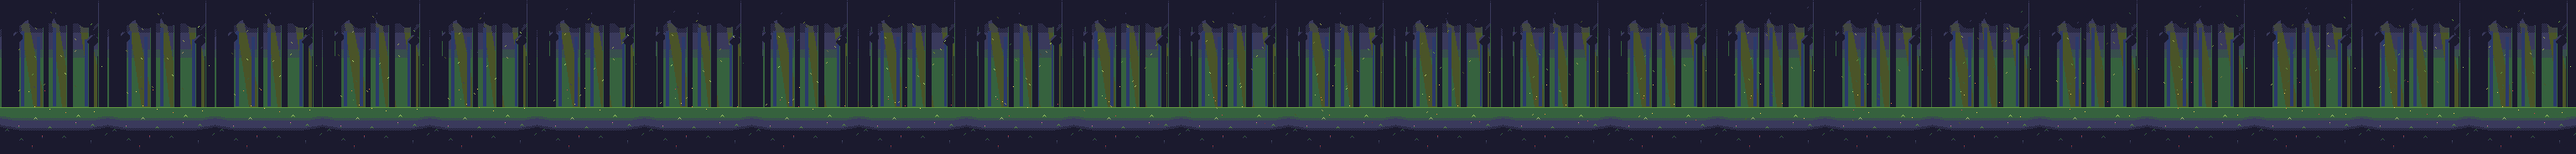
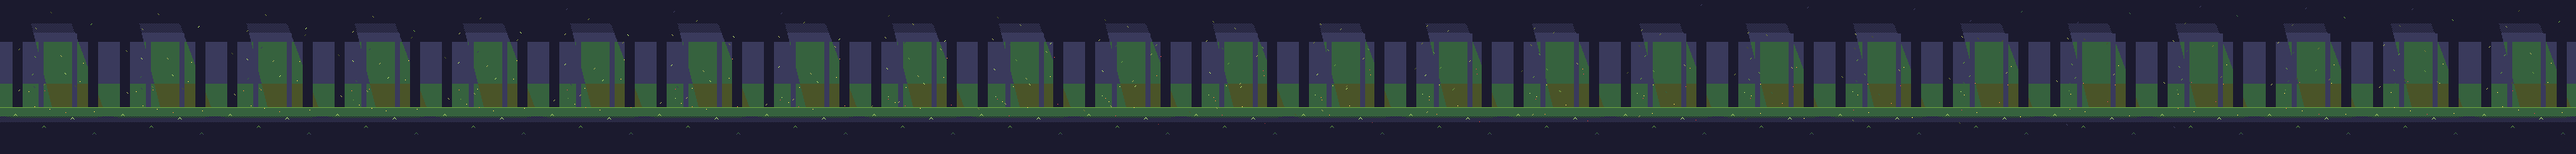
Backdrops: minimal Eden glade and Flint warm-pool scenes
Claude-Session: https://claude.ai/code/session_01J8LgTLVYzThXjNSRVhWqep

diff --git a/tools/sprites/backdrops.py b/tools/sprites/backdrops.py
@@ -279,93 +279,74 @@ def leaf_clusters(layer: Layer, rng: random.Random, centers: list, base: tuple, 
 
 
 def eden() -> Scene:
+    """Minimal: banded dark glade, four tone-on-tone trunks, one wide soft shaft, a mossy floor line."""
     s = Scene(11)
-    sky = Layer()  # a calm glade: dark canopy overhead, a warm green glow at the horizon
-    sky.gradient(0, FLOOR, [SHADOW, SHADOW, GREEN_D, GREEN_D])
+    sky = Layer()
+    sky.rect((0, 0, W, 50), flat(OUTLINE))
+    sky.rect((0, 50, W, 100), flat(SHADOW))
+    sky.rect((0, 100, W, FLOOR), flat(GREEN_D))
+    shaft = Layer()  # one wide, soft band of light, banded to match the sky behind it
+    shaft.poly([(30, 0), (74, 0), (122, FLOOR), (62, FLOOR)], lambda x, y: SHADOW if y < 50 else GREEN_D if y < 100 else OLIVE_D)
     s.add(sky)
-    shafts = Layer()  # three soft shafts of light behind the trunks
-    for x0, wd, run in ((22, 8, 24), (60, 6, 20), (92, 9, 24)):
-        shafts.poly([(x0, 10), (x0 + wd, 10), (x0 + wd + run, FLOOR), (x0 + run - 6, FLOOR)], flat(OLIVE_D))
-    s.add(shafts, 3.0, 0.0)
-    far = Layer()  # distant trunks: thin and blue
-    for i, x in enumerate(range(6, W, 19)):
-        far.rect((x, 30 + (i * 7) % 18, x + 3, FLOOR - 2), flat(NAVY))
+    s.add(shaft, 3.0, 0.0)
+    far = Layer()  # four trunks in all: two thin ones far back, fading into the dark canopy...
+    for x in (46, 86):
+        far.rect((x, 40, x + 5, FLOOR), flat(step(GREEN_D, -1)))
     s.add(far, 1.0, 0.0)
-    mid = Layer()  # mid trunks, dark with a lit left edge
-    for x, top, w in ((14, 20, 7), (50, 26, 6), (78, 22, 7), (104, 28, 6)):
-        mid.rect((x, top, x + w, FLOOR), flat(OUTLINE))
-        mid.rect((x, top, x, FLOOR), flat(GREEN_D))
-    s.add(mid, 1.5, 0.1)
-    canopy = Layer()  # the canopy edge: scalloped leaf clusters
-    canopy.rect((0, 0, W, 14), flat(OUTLINE))
-    centers = [(x + (i % 2) * 6, 14 + (i * 5) % 9, 9 + (i * 3) % 5) for i, x in enumerate(range(-4, W + 12, 14))]
-    leaf_clusters(canopy, s.rng, centers, OUTLINE, step(GREEN_D, -1))
-    leaf_clusters(canopy, s.rng, [(6, 34, 8), (18, 44, 6), (118, 36, 9), (108, 48, 6)], OUTLINE, step(GREEN_D, -1))
-    tree(canopy, -6, 0, FLOOR + 4, 20, OUTLINE, GREEN_D)  # the two foreground trunks
-    tree(canopy, 114, 0, FLOOR + 4, 22, OUTLINE, GREEN_D)
-    s.add(canopy, 2.0, 0.25)
+    near = Layer()  # ...and two thick dark ones nearer
+    for x in (14, 104):
+        near.rect((x, 0, x + 11, FLOOR), flat(OUTLINE))
+    s.add(near, 1.5, 0.1)
     floor = Layer()
-    ground(floor, [GREEN_D, GREEN_D, step(GREEN_D, -1)], rim=GREEN)
-    for x in range(8, W, 17):  # grass tufts, then a few flowers
-        y = FLOOR + 8 + (x * 7) % 36
+    ground(floor, [GREEN_D, OUTLINE, OUTLINE], rim=GREEN)
+    for x, y in ((18, FLOOR + 10), (52, FLOOR + 24), (86, FLOOR + 14), (112, FLOOR + 32)):  # a few grass tufts
         for dx, dy in ((-2, 0), (0, -2), (2, 0), (-1, -1), (1, -1)):
             floor.put(x + dx, y + dy, GREEN_L if dy else GREEN)
-    for x, y, c in ((22, FLOOR + 22, PINK_L), (50, FLOOR + 34, YELLOW), (90, FLOOR + 18, PINK_L), (108, FLOOR + 40, WHITE), (38, FLOOR + 46, YELLOW)):
-        floor.put(x, y, c)
-        floor.put(x, y + 1, GREEN)
-        floor.put(x, y + 2, GREEN)
     s.add(floor)
-    s.particles(14, (6, 0, W - 6, 100), (-16, 52), [OLIVE_L, GREEN_L, GREEN], kind="leaf", sway=5)
-    s.particles(8, (10, 70, W - 10, 150), (6, -18), [YELLOW, GREEN_L], size=1, sway=4)
+    s.particles(12, (6, 0, W - 6, 100), (-16, 52), [OLIVE_L, GREEN_L, GREEN], kind="leaf", sway=5)
+    s.particles(9, (10, 70, W - 10, 150), (6, -18), [YELLOW, GREEN_L], size=1, sway=4)
     return s
 
 
 def flint() -> Scene:
+    """Minimal: charcoal-to-deep-red bands, a low warm glow ellipse behind him, rock edges, a cracked floor."""
     s = Scene(12)
-    back = Layer()  # inside the arch: warm bands rising from the lava
-    back.gradient(0, FLOOR, [OUTLINE, OUTLINE, MAROON, MAROON, RED])
+    back = Layer()  # the red only arrives in the lowest bands: never the top half
+    back.gradient(0, FLOOR, [OUTLINE, SHADOW, SHADOW])
     s.add(back)
-    arch = Layer()  # a dark rock arch framing the scene
-    ring = Image.new("L", (W, H), 0)
-    d = ImageDraw.Draw(ring)
-    d.rectangle((0, 0, W, FLOOR), fill=255)
-    d.ellipse((14, 18, W - 14, 220), fill=0)  # the opening
-    mp = ring.load()
-    for y in range(H):
-        for x in range(W):
-            if mp[x, y]:
-                arch.put(x, y, OUTLINE)
-    for x in range(W):  # a lit rim along the inside of the arch, picked out by the lava
-        for y in range(H):
-            if arch.get(x, y) is not None and any(arch.get(x + dx, y + dy) is None for dx, dy in ((1, 0), (-1, 0), (0, 1)) if 0 < y + dy < FLOOR):
-                arch.put(x, y, MAROON if y > 40 else step(MAROON, -1))
-    for x, ln in ((36, 14), (50, 22), (64, 12), (78, 20), (92, 12)):  # stalactites hanging in the opening
-        arch.poly([(x - 4, 14), (x + 4, 14), (x, 18 + ln)], flat(OUTLINE))
-    s.add(arch, 1.0, 0.0)
-    pool = Layer()  # a lava pool behind him: nested bands, hottest in the middle
-    for (rx, ry, c) in ((58, 12, MAROON), (52, 10, RED), (42, 8, ORANGE), (28, 5, YELLOW)):
-        pool.ellipse((64 - rx, FLOOR - 4 - ry, 64 + rx, FLOOR - 4 + ry), flat(c))
-    s.add(pool, 2.0, 0.0)
+    rocks = Layer()  # jagged dark rock edges
+    for side, x0 in ((1, 0), (-1, W)):
+        pts = [(x0, 30)]
+        y = 30
+        for i in range(8):
+            y += 12
+            pts.append((x0 + side * (14 + (i * 7) % 11 + (4 if i % 2 else 0)), y))
+        pts += [(x0 + side * 12, FLOOR), (x0, FLOOR)]
+        rocks.poly(pts, flat(OUTLINE))
+    s.add(rocks, 1.0, 0.0)
     floor = Layer()
-    ground(floor, [step(MAROON, 0), step(MAROON, 0), OUTLINE], rim=RED)
-    for x0 in (14, 38, 90, 112):  # glowing cracks
-        x, y = x0, FLOOR + 8
-        for _ in range(9):
-            floor.put(x, y, ORANGE)
-            x += s.rng.choice((-1, 0, 1))
+    ground(floor, [OUTLINE, OUTLINE, OUTLINE], rim=step(MAROON, 0))
+    for x0, length in ((22, 9), (60, 11), (100, 8)):  # thin glowing cracks with a branch
+        x, y = x0, FLOOR + 6
+        for k in range(length):
+            floor.put(x, y, RED if k % 3 else step(ORANGE, -1))
+            x += s.rng.choice((-1, 0, 0, 1))
             y += 2
+            if k == length // 2:
+                floor.put(x + 1, y, RED)
+                floor.put(x + 2, y + 1, RED)
     s.add(floor)
-    s.particles(18, (10, FLOOR - 10, W - 10, FLOOR + 10), (6, -96), [ORANGE, YELLOW, RED], sway=4)
+    glow = Layer()  # a warm pool of light on the floor round his feet: a flat ellipse, two bands deep
+    for rx, ry, c in ((64, 15, MAROON), (40, 8, BROWN)):
+        glow.ellipse((64 - rx, FLOOR + 3 - ry, 64 + rx, FLOOR + 3 + ry), flat(c))
+    s.add(glow)
 
-    def pulse(f: int, img: Image.Image) -> None:  # a slow breath of heat over the pool
-        px = img.load()
-        a = 0.9 + 0.5 * math.sin(math.tau * f / FRAMES)
-        for y in range(FLOOR - 40, FLOOR + 6):
-            for x in range(14, W - 14):
-                d = math.hypot((x - 64) / 70, (y - (FLOOR - 4)) / 38)
-                if d < 1 and px[x, y][:3] in (MAROON, RED, ORANGE, OUTLINE):
-                    px[x, y] = dith(px[x, y][:3], a * (1 - d) ** 1.2, x, y) + (255,)
-    s.glow = pulse
+    def core(f: int, cv: Layer) -> None:  # the hot centre breathes
+        k = 0.5 + 0.5 * math.sin(math.tau * f / FRAMES)
+        rx, ry = 22 + round(8 * k), 5 + round(2 * k)
+        cv.d.ellipse((64 - rx, FLOOR + 3 - ry, 64 + rx, FLOOR + 3 + ry), fill=(BROWN if k < 0.5 else OCHRE_D) + (255,))
+    s.motion.append(core)
+    s.particles(16, (14, FLOOR - 8, W - 14, FLOOR + 8), (6, -96), [ORANGE, YELLOW, RED], sway=4)
     return s
 
 
